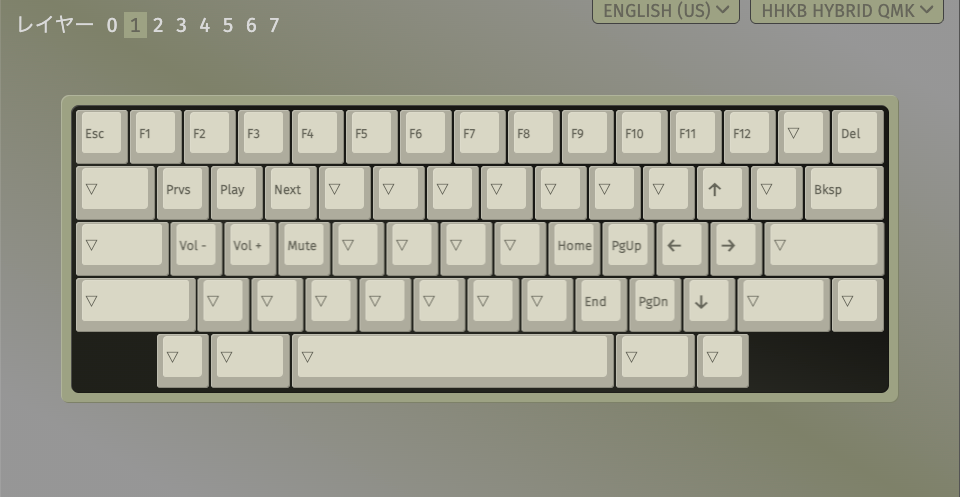
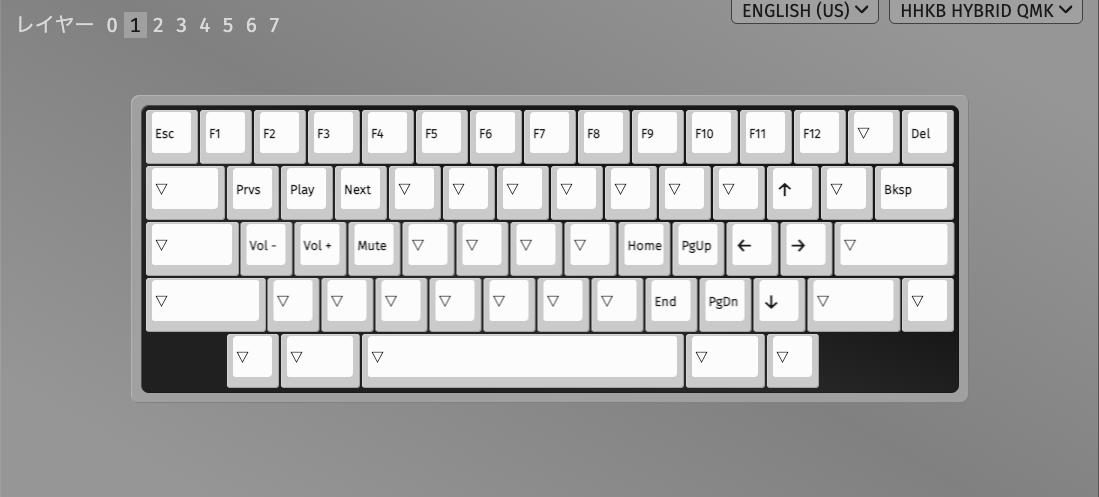
README の VIA の画像を差し替え、カスタムキーの説明を追加する

diff --git a/README.md b/README.md
@@ -32,6 +32,18 @@ VIA でキーマップを Dvorak 配列に変更した例です。
 
 Fn キーを押している間に使うレイヤー 1 の例です。右下の下矢印キーの割り当ては、公式のキーマップ変更ツールではできませんでしたが、VIA ではできるようになります。
 
+![VIA のカスタムキーの画面](docs/images/via-custom-keys.png)
+
+レイヤー 2 に Bluetooth の専用キーを割り当てた例です。画面下の「カスタム」には、参考実装が用意した次のようなキーが並びます。
+
+| キー | 配置後の表示 | 動作 |
+|---|---|---|
+| `BT_SLOT1`〜`BT_SLOT4` | `BT1`〜`BT4` | Bluetooth の接続先を切り替える。ペアリングモード中は、その接続先に登録する |
+| `BT_PAIR` | `Pair` | ペアリングモードに入る |
+| `BT_CANCEL` | `PCan` | ペアリングモードを取り消す |
+| `OUT_AUTO` | `USB` | 出力を自動（USB 優先）に戻す |
+| `BT_DEL1`〜`BT_DEL4` | `BDel1`〜`BDel4` | ペアリングモード中に押すと、その接続先の登録を削除する |
+
 ## 仕組み
 
 HHKB の更新モードを使って、キーボードのファームウェアを QMK に置き換えます。
